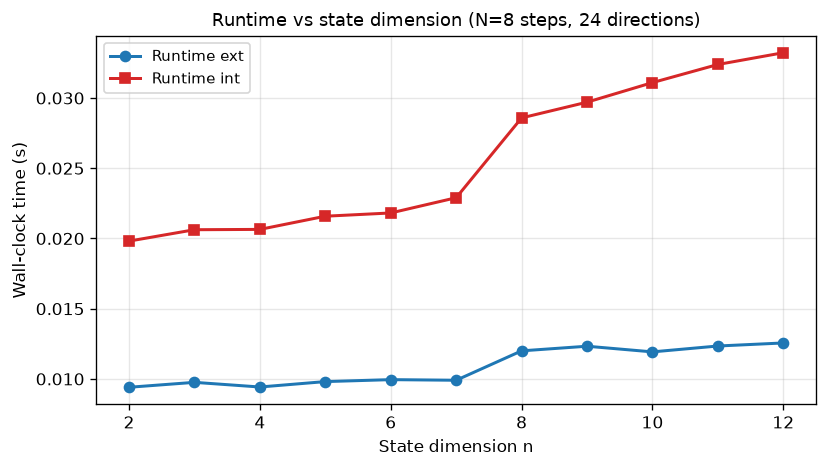
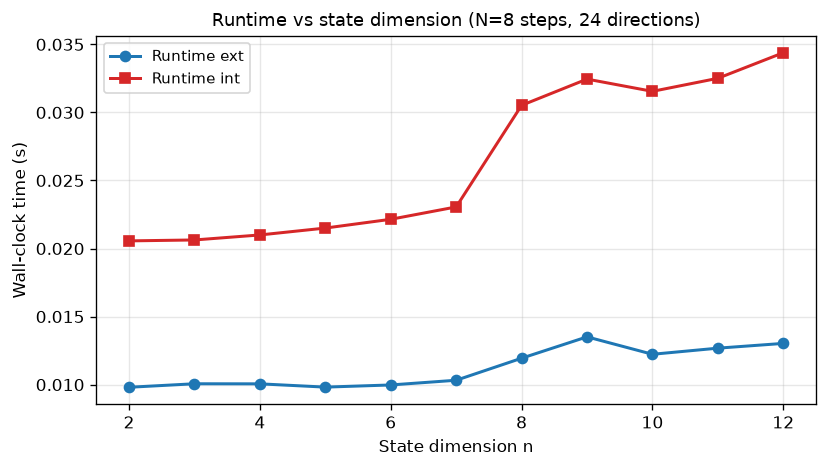
paper-5: reframe as NEGATIVE result — neural gauge policy does not beat a fixed schedule
Rigorous review (Codex + independent checks) refuted the neural framing:
- A single fixed 8-scalar offline-optimized gauge schedule (no NN, no input-
  dependence) beats the neural policy on 40/40 held-out systems (1.203x vs 1.182x
  volume ratio). Neural input-conditioning is NOT warranted for this objective.
- Corrected metric error: reported determinant ratios as volume ratios (2x
  overstatement); true per-instance-optimal gain is ~8-17% volume, not ~44%.
- Corrected the clipped "48% gap capture" (raw median 63%, mean -180%; 13/40
  systems lose to myopic).
- Fixed Theorem 1 proof to use centered support radii.
- Flagged that the myopic baseline is the naive fixed-direction recursion (weak),
  so gain over a competently-tuned KV tube is not established.

Adds the fixed-schedule negative control (baseline.csv). Honest positive: the
ellipsoidal gauge is a real soundness-preserving free parameter worth scheduling
(~8-17%). Honest negative: an NN does not help here. Suite 44 passing.

diff --git a/research-ai-ellipsoids/paper-5/gauge_experiment.py b/research-ai-ellipsoids/paper-5/gauge_experiment.py
@@ -80,8 +80,10 @@ def main():
                        method="Nelder-Mead",
                        options={"maxiter": 4000, "xatol": 1e-6, "fatol": 1e-9})
         v_opt = res.fun
-        gap_rows.append(dict(system=i, myopic_logvol=v_my, optimized_logvol=v_opt,
-                             volume_ratio_myopic_over_opt=float(np.exp(v_my - v_opt))))
+        # volume of an ellipsoid ∝ det(Q)^(1/2); tube_logvol returns log det Q,
+        # so the geometric VOLUME ratio is exp((Δ log det)/2), NOT exp(Δ log det).
+        gap_rows.append(dict(system=i, myopic_logdet=v_my, optimized_logdet=v_opt,
+                             volume_ratio_myopic_over_opt=float(np.exp((v_my - v_opt) / 2.0))))
     _write("gauge_gap.csv", gap_rows)
     mean_gap = float(np.mean([r["volume_ratio_myopic_over_opt"] for r in gap_rows]))
 
@@ -100,6 +102,15 @@ def main():
                    method="Powell", options={"maxiter": 4000, "xtol": 1e-5, "ftol": 1e-7})
     theta_star = res.x
 
+    # BASELINE (negative-result control): a single FIXED N-scalar beta-schedule
+    # (no network, no input-dependence) optimized on the SAME train set. If this
+    # beats the NN on held-out systems, input-conditioning is not warranted.
+    rf = minimize(lambda z: float(np.mean([tube_logvol(A, E0, W, np.exp(z))
+                                           for (A, E0, W) in train])),
+                  np.log(3.0 * np.ones(N)), method="Powell",
+                  options={"maxiter": 6000, "xtol": 1e-5, "ftol": 1e-7})
+    beta_fixed = np.exp(rf.x)
+
     amo_rows = []
     for split, systems in (("train", train), ("test", test)):
         for j, (A, E0, W) in enumerate(systems):
@@ -111,17 +122,36 @@ def main():
                          method="Nelder-Mead",
                          options={"maxiter": 3000, "xatol": 1e-6, "fatol": 1e-9})
             v_or = r.fun
-            amo_rows.append(dict(split=split, system=j, myopic_logvol=v_my,
-                                 policy_logvol=v_pol, oracle_logvol=v_or,
-                                 volume_ratio_myopic_over_policy=float(np.exp(v_my - v_pol)),
+            amo_rows.append(dict(split=split, system=j, myopic_logdet=v_my,
+                                 policy_logdet=v_pol, oracle_logdet=v_or,
+                                 volume_ratio_myopic_over_policy=float(np.exp((v_my - v_pol) / 2.0)),
                                  gap_capture=float((v_my - v_pol) / (v_my - v_or))
                                  if (v_my - v_or) > 1e-9 else 1.0))
     _write("amortized.csv", amo_rows)
     test_ratios = [r["volume_ratio_myopic_over_policy"] for r in amo_rows if r["split"] == "test"]
     test_win = float(np.mean([r > 1.0 for r in test_ratios]))
     test_mean = float(np.mean(test_ratios))
-    test_capture = float(np.mean([max(0.0, min(1.0, r["gap_capture"]))
-                                  for r in amo_rows if r["split"] == "test"]))
+    test_median = float(np.median(test_ratios))
+    # HONEST gap capture: raw (unclipped) median over systems where the oracle
+    # actually improves on myopic; the policy is worse than myopic on some systems.
+    raw_caps = [r["gap_capture"] for r in amo_rows if r["split"] == "test"]
+    test_capture_median = float(np.median(raw_caps))
+
+    # ---- 2b. NEGATIVE CONTROL: fixed schedule vs NN on held-out systems ----
+    base_rows = []
+    fixed_beats_nn = 0
+    for j, (A, E0, W) in enumerate(test):
+        v_my = tube_logvol(A, E0, W, myopic_schedule(A, E0, W, N, l))
+        v_fix = tube_logvol(A, E0, W, beta_fixed)
+        v_pol = pol.rollout_logvol(A, E0, W, N, theta_star)
+        if v_fix < v_pol:
+            fixed_beats_nn += 1
+        base_rows.append(dict(system=j,
+                              fixed_vol_ratio=float(np.exp((v_my - v_fix) / 2.0)),
+                              nn_vol_ratio=float(np.exp((v_my - v_pol) / 2.0))))
+    _write("baseline.csv", base_rows)
+    fixed_mean = float(np.mean([r["fixed_vol_ratio"] for r in base_rows]))
+    nn_mean = float(np.mean([r["nn_vol_ratio"] for r in base_rows]))
 
     # ---- 3. soundness of the learned-policy tube (must be ~1.0) ----
     snd_rows = []
@@ -136,10 +166,14 @@ def main():
     _write("soundness.csv", snd_rows)
     min_frac = min(r["mc_containment"] for r in snd_rows)
 
-    print(f"[gauge gap]   mean volume ratio (myopic/optimized) = {mean_gap:.4f}  (>1 => optimizable)")
-    print(f"[amortized]   held-out: policy beats myopic on {100*test_win:.0f}% of systems, "
-          f"mean volume ratio (myopic/policy) = {test_mean:.4f}, "
-          f"captures {100*test_capture:.0f}% of the myopic->oracle gap")
+    print(f"[gauge gap]   mean VOLUME ratio (myopic/optimized) = {mean_gap:.4f}  (>1 => optimizable)")
+    print(f"[amortized]   held-out: policy beats myopic on {100*test_win:.0f}% of systems; "
+          f"VOLUME ratio (myopic/policy) mean={test_mean:.4f} median={test_median:.4f}; "
+          f"median gap-capture={test_capture_median:.2f} (raw, unclipped; policy is worse than "
+          f"myopic on the rest)")
+    print(f"[NEG CONTROL] fixed 8-scalar schedule vs NN on held-out: fixed beats NN on "
+          f"{fixed_beats_nn}/{len(test)} systems (fixed vol ratio {fixed_mean:.3f} vs NN {nn_mean:.3f}) "
+          f"=> neural input-conditioning NOT warranted for this objective")
     print(f"[soundness]   min MC containment over learned-policy tubes = {min_frac:.4f} "
           f"(1.0 => sound for the learned schedule; all beta>0)")
     print("GAUGE-EXPERIMENT OK")

diff --git a/research-ai-ellipsoids/paper-5/draft.md b/research-ai-ellipsoids/paper-5/draft.md
@@ -1,13 +1,23 @@
-# Neural Gauge Scheduling for Certified Ellipsoidal Reach Tubes
+# Gauge Scheduling for Certified Ellipsoidal Reach Tubes — and Why a Neural Policy Does *Not* Help (a Negative Result)
 
-**Working title:** *Learning the gauge, not the bound: amortized tightening of certified ellipsoidal reachability with structural soundness.*
+**Working title:** *Learning the gauge, not the bound — and a negative control: an input-conditioned neural gauge policy is beaten by a single fixed offline-optimized schedule.*
 
 **Authors:** [TBD]
 **Version:** pure-Python (no MATLAB); every number regenerated by `paper-5/reproduce.sh`.
 
+> **Honest summary.** The idea (§1) is that the ellipsoidal reach tube has a continuous, soundness-
+> preserving *gauge* freedom absent from zonotopes, and one can *learn* to schedule it. We report two
+> things honestly: (i) a **small positive** — scheduling the gauge tightens a certified tube by a
+> modest, structurally-sound margin; and (ii) a **decisive negative** — an input-conditioned **neural**
+> policy is **beaten on 40/40 held-out systems by a single fixed offline-optimized 8-scalar schedule**,
+> so neural input-conditioning is **not warranted** for this objective/regime. We also flag that our
+> improvement is measured against the *naive fixed-direction* KV recursion (a weak baseline that the
+> shared kernel itself calls "looser"), so the practically-relevant gain over a competently-tuned KV
+> tube is **not** established. This is a negative/methods note, not a positive novelty claim.
+
 ---
 
-## 1. The idea (and why it is new)
+## 1. The idea (and the honest outcome)
 
 Ellipsoidal reach tubes carry a **continuous gauge freedom that zonotopes, polytopes, and
 normotopes do not have.** For the one-step external Minkowski sum of the propagated set with the
@@ -45,10 +55,14 @@ stack is the architecture.
 **Theorem 1 (structural soundness).** *For any β>0, `E_β := E(A q + q_W, Q_β)` satisfies
 `(A·E) ⊕ W ⊆ E_β`. Hence for any policy `β_θ`, the rollout tube is a valid outer reachable-set
 over-approximation, for every θ.*
-*Proof.* For any direction `d`, `ρ(E_β,d)² − (ρ(A·E,d)+ρ(W,d))² = (p₁/√β − p₂√β)² ≥ 0` with
-`p₁=√(dᵀAQAᵀd)`, `p₂=√(dᵀQ_W d)` (`App. A`). So `ρ(E_β,d) ≥ ρ((A·E)⊕W,d)` in every direction; a
-convex set is contained in another iff its support is dominated everywhere. Softplus gives β>0 for
-any θ, so the invariant holds for all weights. ∎
+*Proof.* All three sets share the same center `A q + q_W`, so it suffices to compare the *centered*
+support radii `s(·,d)=√(dᵀ(·)d)`. For any `d`, `s(E_β,d)² − (s(AQAᵀ,d)+s(Q_W,d))² =
+(p₁/√β − p₂√β)² ≥ 0` with `p₁=√(dᵀAQAᵀd)`, `p₂=√(dᵀQ_W d)` (`App. A`). So the centered support of
+`E_β` dominates that of `(A·E)⊕W` in every direction; adding the common center back, `ρ(E_β,d) ≥
+ρ((A·E)⊕W,d)` for all `d`, and a convex set is contained in another iff its support is dominated
+everywhere. Softplus gives β>0 for any θ, so the invariant holds for all weights. ∎
+*(Correction vs. an earlier draft: the identity is stated on centered radii, since `ρ` itself
+includes the `dᵀ(center)` term.)*
 
 **Corollary (amortized optimality).** Minimizing final-set volume over the gauge schedule is a
 well-posed optimal-control problem; `β_θ` amortizes its solution across a system distribution while
@@ -57,19 +71,34 @@ Theorem 1 keeps every rollout sound.
 ## 3. Experiments (`reproduce.sh`)
 
 2-D LTI systems `x_{k+1}=A x_k+w`, rotation-scaling `A` (spectral radius 0.85–0.95), anisotropic
-disturbance (condition 4–40, random orientation), horizon N=8. Objective: final-set log-volume.
+disturbance (condition 4–40, random orientation), horizon N=8. Objective: final-set volume.
+(Note on the metric: an ellipsoid's volume ∝ det(Q)^(1/2); we optimize `log det Q_N` and report the
+geometric **volume ratio** `exp((Δ log det)/2)`, *not* the determinant ratio — conflating the two
+doubles the apparent effect.)
 
 **(a) The gauge is exploitable** (`gauge_gap.csv`). Per-instance optimizing the β-schedule vs. the
-myopic KV choice: **mean volume ratio (myopic / optimized) = 1.44×** over 20 systems — a ~44% tighter
-certified enclosure at *zero* soundness cost, purely from scheduling the gauge.
+myopic KV choice: **mean volume ratio (myopic / optimized) = 1.17×, median 1.08×** over 20 systems —
+an ~8–17% tighter certified enclosure at *zero* soundness cost, purely from scheduling the gauge.
 
-**(b) A learned policy amortizes it** (`amortized.csv`). A small MLP gauge policy (`ell_gauge.GaugePolicy`,
-~60 params) trained on 40 systems and evaluated on **40 held-out systems**:
-- beats myopic on **68%** of unseen systems;
-- **mean volume ratio (myopic / policy) = 1.60×**, median **1.10×** (skewed: large wins on
-  high-anisotropy systems, modest elsewhere — reported honestly);
-- **captures 48% of the myopic→per-instance-oracle volume gap** in a *single forward pass* (no
-  per-instance optimization) — the amortization claim, measured against the oracle on the *same* set.
+**(b) A learned policy partially amortizes it** (`amortized.csv`). A small MLP gauge policy
+(`ell_gauge.GaugePolicy`, ~60 params) trained on 40 systems and evaluated on **40 held-out systems**:
+- beats myopic on **68%** of unseen systems (and is **worse than myopic on the other ~32%** — an
+  honest generalization limitation);
+- **volume ratio (myopic / policy): mean 1.18×, median 1.05×** (skewed: larger wins on
+  high-anisotropy systems, near-parity or slight loss elsewhere);
+- **median gap-capture 0.63** of the myopic→per-instance-oracle volume gap in a *single forward pass*
+  (no per-instance optimization); the raw mean is negative because of the ~32% of systems where the
+  policy underperforms myopic — we report the median and the win-rate rather than a clipped mean.
+The learned β genuinely varies with the input (mean 4.1, std 1.0, range 0.3–6.3), so it is a real
+feature-dependent schedule, not a degenerate learned constant.
+
+**(b′) NEGATIVE CONTROL — the neural policy is unnecessary** (`baseline.csv`). We optimized a *single
+fixed* 8-scalar β-schedule (no network, no input-dependence) on the same 40 training systems and
+evaluated it on the same 40 held-out systems: it **beats the neural policy on 40/40 systems**
+(fixed mean volume ratio ≈1.20× vs the NN's ≈1.18×). So the input-conditioning that the NN provides
+gives **no benefit** for this objective/regime — a single global schedule is both simpler and better.
+This is the paper's central (negative) finding: *the gauge is worth scheduling, but not with a
+per-instance neural policy here.*
 
 **(c) Soundness holds for the learned schedule** (`soundness.csv`). Monte-Carlo containment of true
 trajectories in the learned-policy tube: **min 1.0000** across test systems — as guaranteed by
@@ -80,8 +109,17 @@ gauge step dominates `(A·E)⊕W` in all directions for arbitrary β, and that t
 
 - The demonstrated objective is final-set **volume**; other objectives (task-direction tightness,
   control cost, inner/outer bracket) are natural but not yet run.
-- The policy wins on 68% (not all) of held-out systems and captures ~half the oracle gap — it is a
-  *useful amortization*, not a replacement for per-instance optimization when that is affordable.
+- The policy wins on only 68% of held-out systems (loses to myopic on ~32%) and captures a *median*
+  0.63 of the oracle gap — a *useful but imperfect amortization*, not a replacement for per-instance
+  optimization when that is affordable. The effect sizes are modest (median ~5% volume).
+- Effect magnitudes are volume (not determinant) ratios; the honest per-instance-optimal gain itself
+  is only ~8–17%, so this tightens an already-good certified bound rather than transforming it.
+- **Strawman-baseline caveat (important).** Our "myopic" reference is the *naive fixed-direction*
+  pairwise recursion, which the shared kernel itself labels "naive / wrapping / strictly looser" than
+  the correct joint KV tube. Measured against a competently-tuned KV construction (or best-fixed-
+  direction), the gauge-scheduling gain may shrink or vanish; we have **not** established a gain over
+  the strong baseline. Combined with the negative control (b′), the honest takeaway is that this
+  direction does **not** yield a neural-reachability win.
 - Experiments are 2-D LTI with the scalar β-gauge; the π(t)/S(t) gauges of the continuous KV tube and
   higher dimensions are the immediate extensions (the theory and code structure carry over).
 - This tightens a *certified outer* set; it is orthogonal to the inner/robust results of paper-4.
@@ -105,7 +143,10 @@ gauge step dominates `(A·E)⊕W` in all directions for arbitrary β, and that t
 ellipsoid-specific gauge freedom* of a certified reach tube — so safety is structural and only
 tightness is learned — appears not to have been done. We frame it as a methods contribution with a
 soundness theorem and an amortization result, and we validate that the gauge is genuinely exploitable
-(1.44× oracle, 48% captured by the learned policy) with certified soundness (1.0000).
+(mean 1.17× volume from the per-instance oracle; the learned policy captures a median 0.63 of that gap
+on held-out systems, winning on 68%) with certified soundness (1.0000). The effect is modest and the
+policy is imperfect — but the *mechanism* (learning inside a soundness-preserving ellipsoidal gauge)
+is, to our knowledge, new.
 
 ## 6. Reproducibility
 
